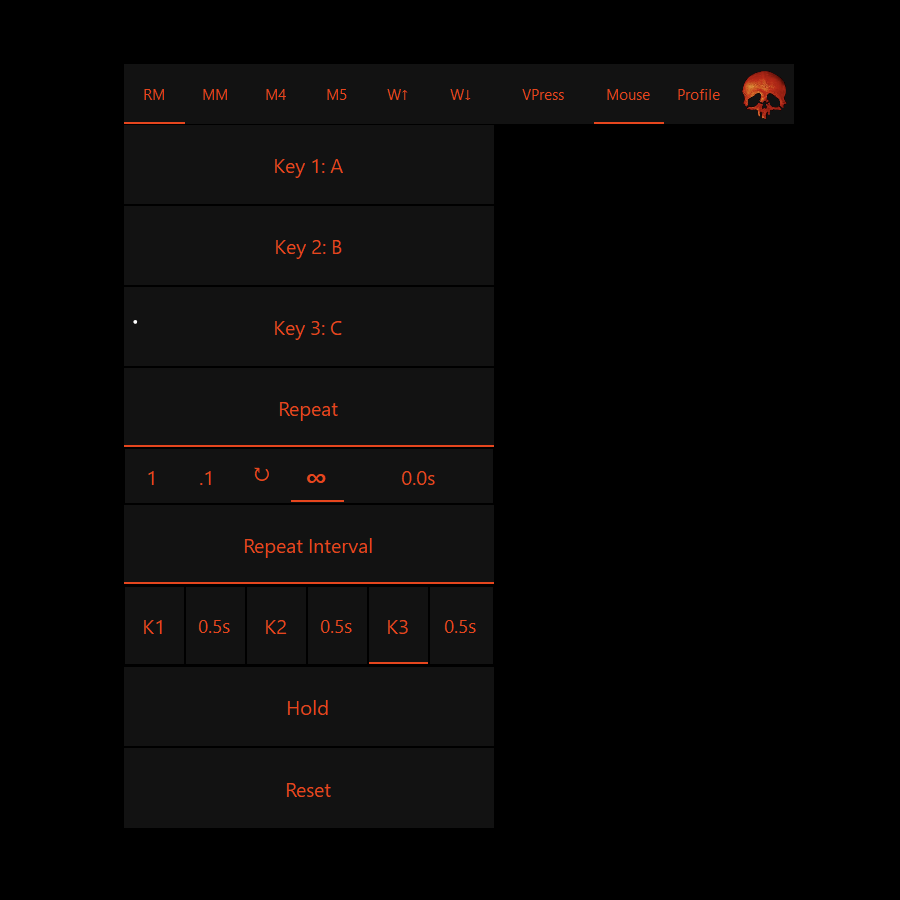
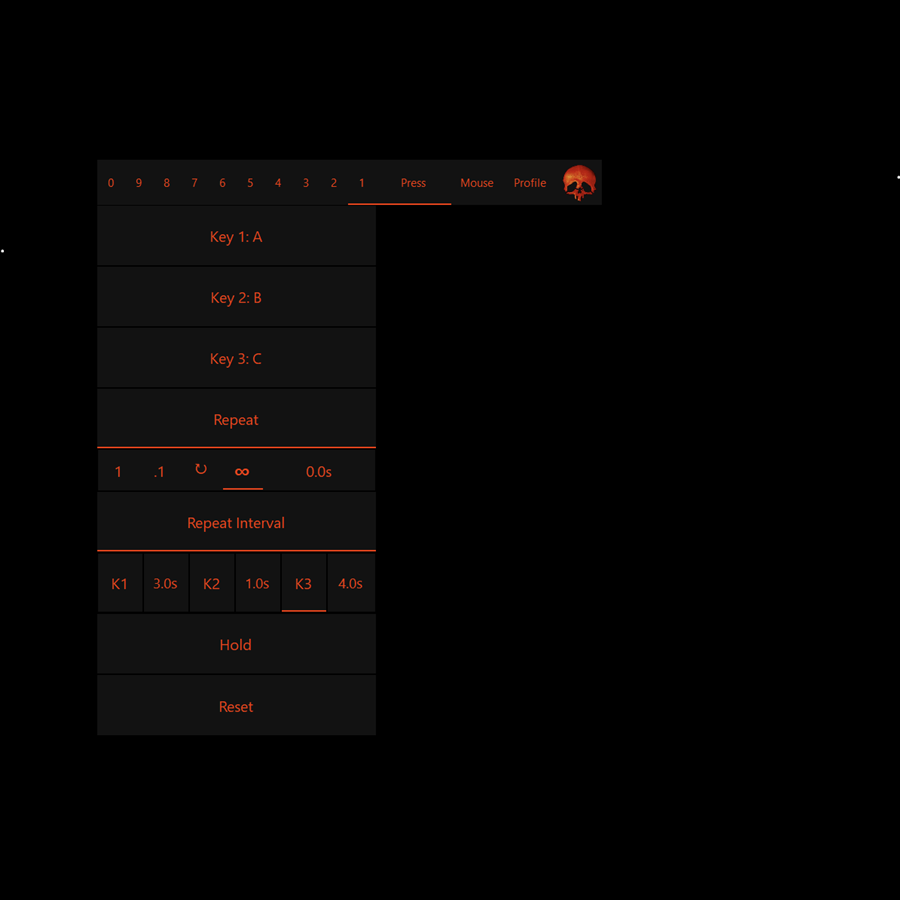
Refresh screenshots for v2.2.0 -- add Press's Voice/Physical selector, update Mouse's card to show the renamed Press button, 4-across row
Resized the same way as before: centered on a black canvas (matching
the app's own background) instead of stretched, downscaling only the
one that came in larger than the target size to keep all four reading
at a comparable scale in the row.

diff --git a/README.md b/README.md
@@ -5,9 +5,10 @@ Remap mouse buttons, voice commands, and a physical number row to keyboard keys,
 ## Screenshots
 
 <p float="left">
-  <img src="Assets/screenshots/VP-Mouse.png" width="32%" alt="Mouse Button 5's card, showing a Ctrl+V combo, Repeat, Hold, and Reset" />
-  <img src="Assets/screenshots/VP-MultiKey-RepeatInterval.png" width="32%" alt="A three-key A/B/C combo with Repeat and Infinite on, and the Repeat Interval row with K1/K2/K3 timing" />
-  <img src="Assets/screenshots/VP-Profiles.png" width="32%" alt="The Profile tab, showing Default and a custom 'the isle' profile, with the VPress/Mouse/Profile row above it" />
+  <img src="Assets/screenshots/VP-PressOptions.png" width="24%" alt="Press's Voice Press/Physical Press selector, dropped down below the Press button" />
+  <img src="Assets/screenshots/VP-Mouse.png" width="24%" alt="Middle Click's card, showing a 1/2/3 combo with Repeat, Repeat Interval, and the K1/K2/K3 timing row" />
+  <img src="Assets/screenshots/VP-MultiKey-RepeatInterval.png" width="24%" alt="A three-key A/B/C combo with Repeat and Infinite on, and the Repeat Interval row with K1/K2/K3 timing" />
+  <img src="Assets/screenshots/VP-Profiles.png" width="24%" alt="The Profile tab, showing Default and a custom 'the isle' profile, with the Press/Mouse/Profile row above it" />
 </p>
 
 ## What it does
